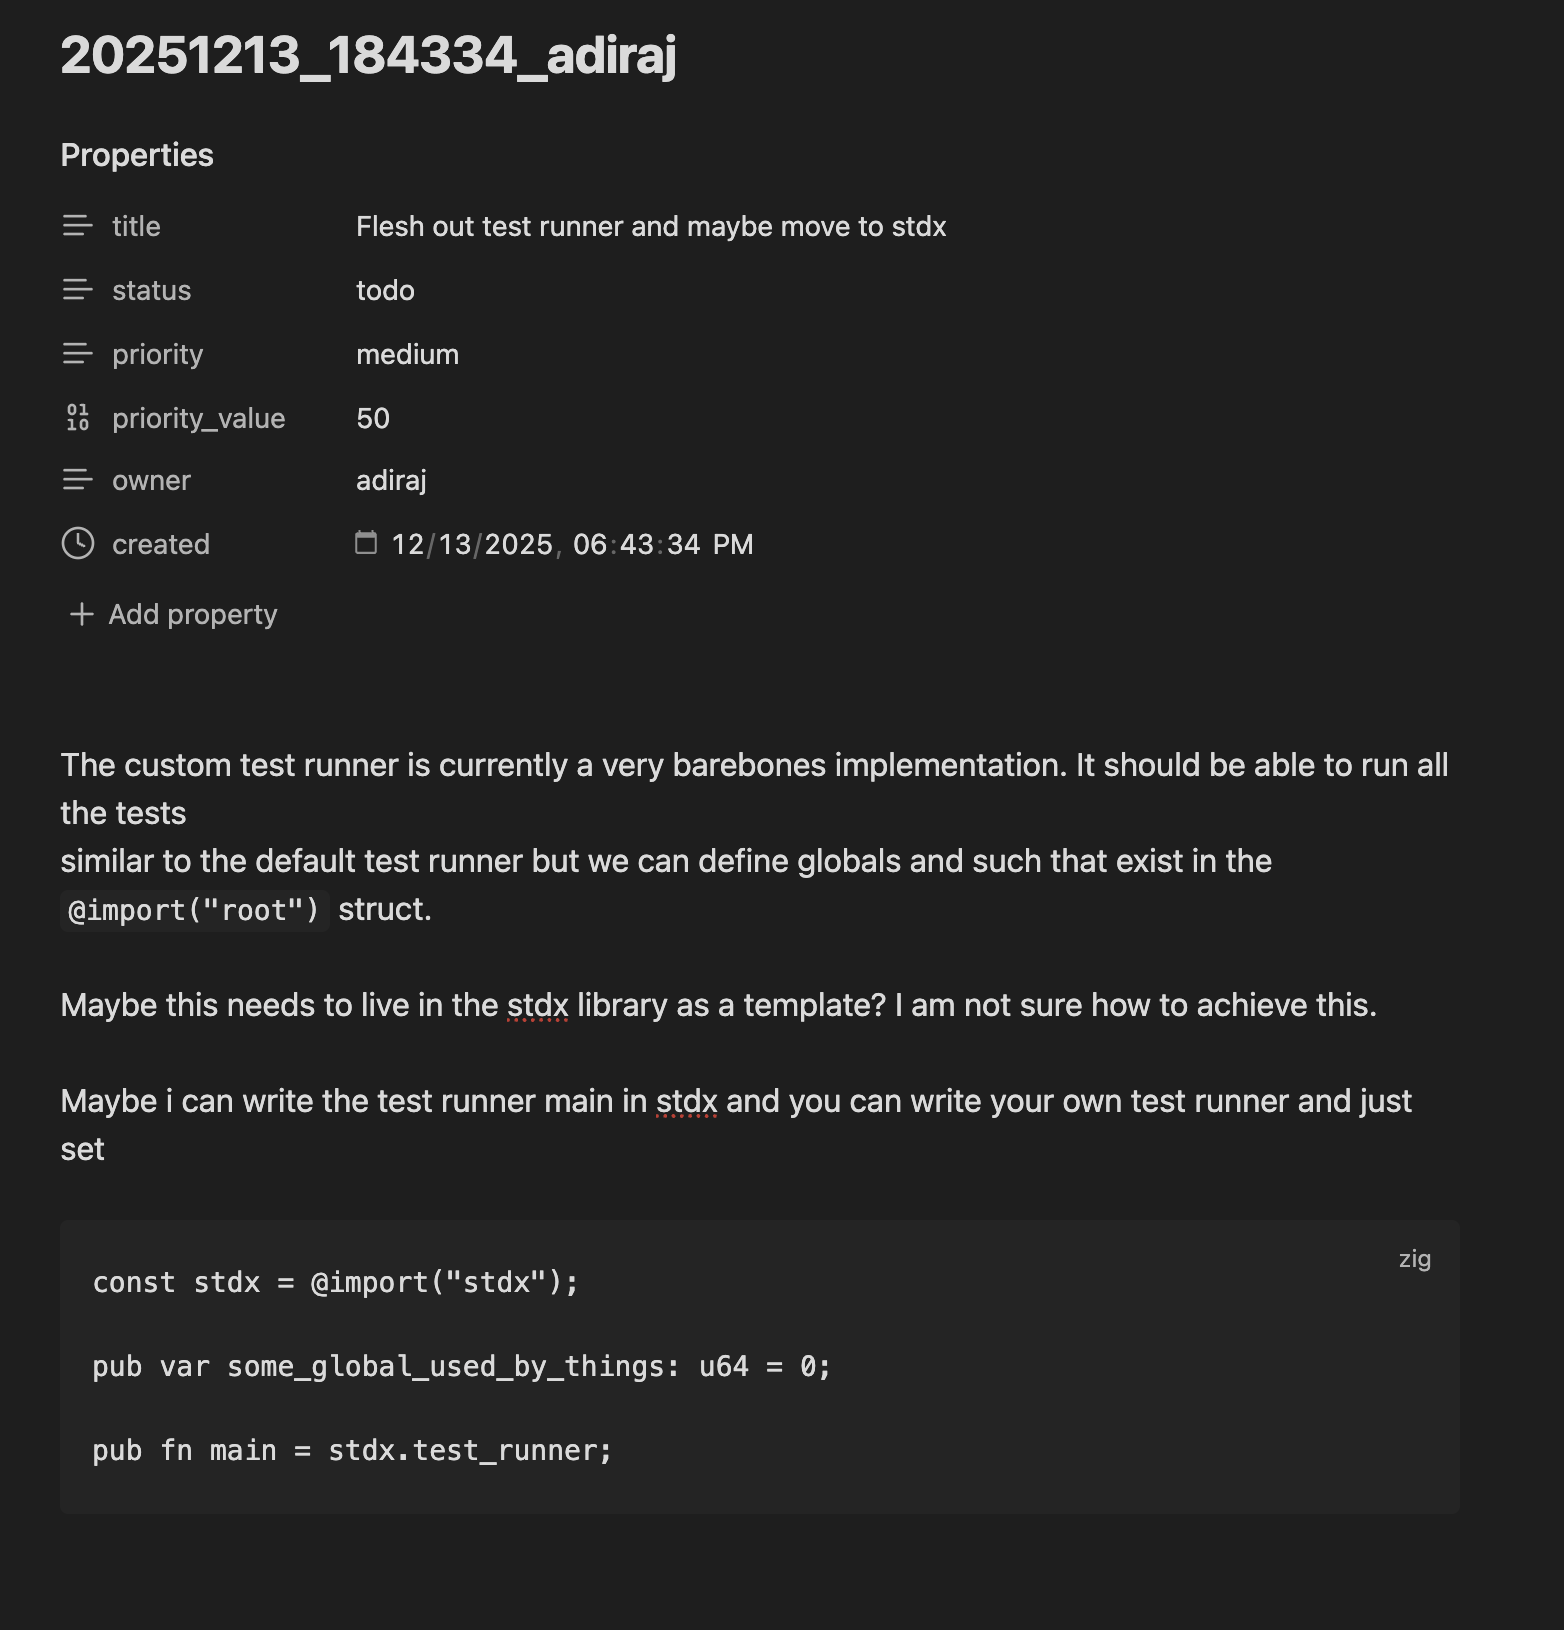
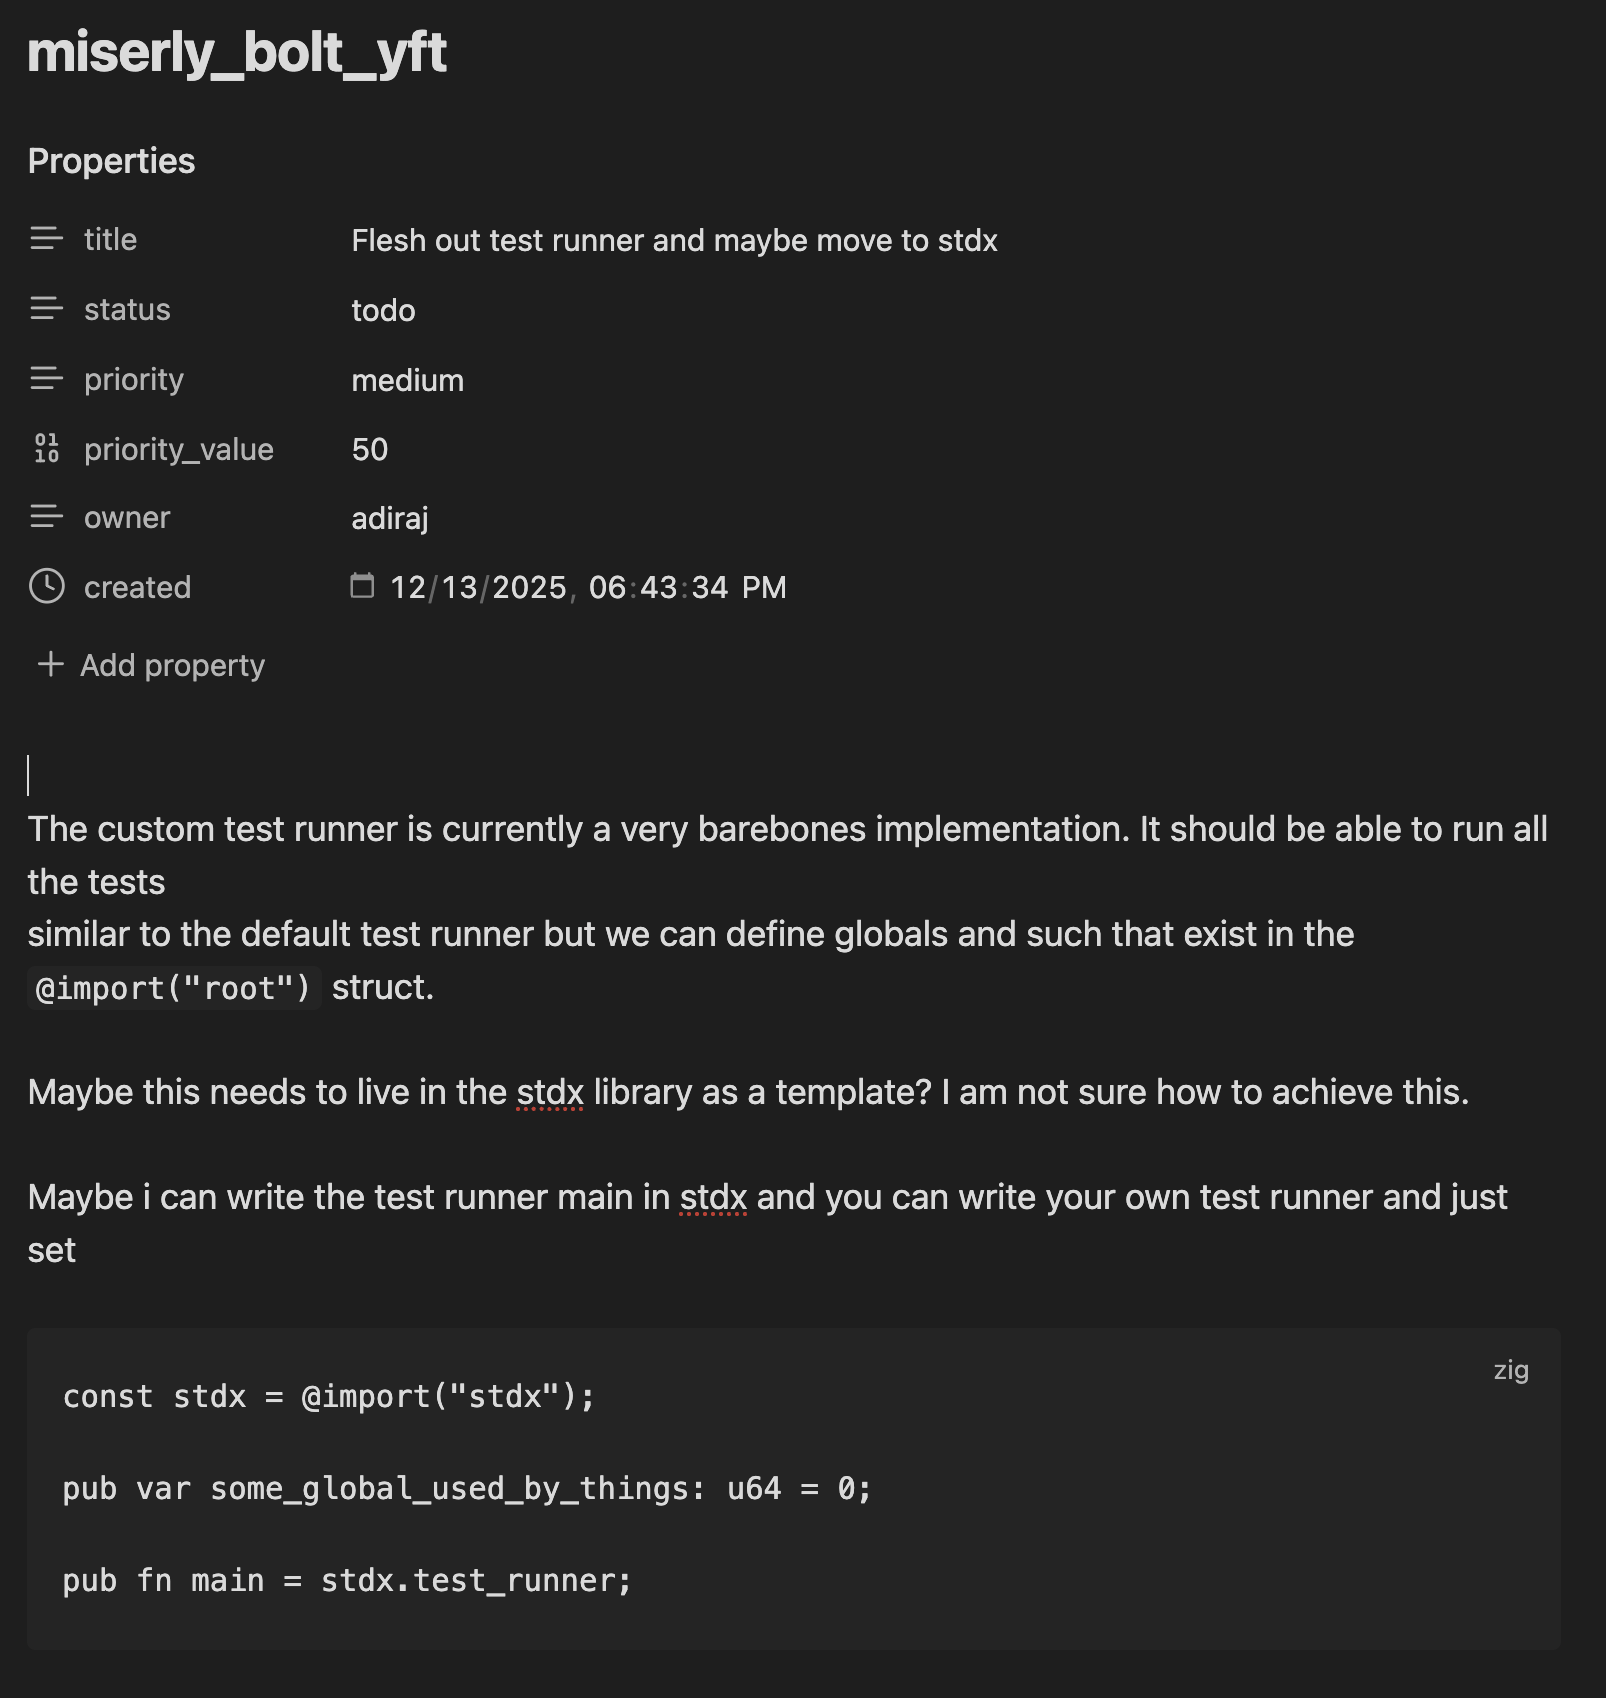
fix: update readme to match new task id format

diff --git a/README.md b/README.md
@@ -2,7 +2,7 @@
     <img src="screenshots/gila.png" alt="ascii-art" width="649">
 </figure>
 
-> 🚧 **Heads up:** GILA is currently in active development. Things might break, commands might change, and the lizard might bite.
+> 🚧 **Heads up:** GILA is currently in active development.
 
 ## What is GILA?
 
@@ -28,11 +28,14 @@ You'll need [Zig](https://ziglang.org/download/) installed.
 
 ## Why?
 
-Because `TODO` comments get lost, and I dont like JIRA for something like my recreational projects.
+I often have `TODO` comments littered throughout
+my codebase and I dont like it. It is easy to forget and hard to track. I also dislike tools like JIRA and Github issues for creating tasks as I usually just want
+some place to add information like images, debug logs, and thoughts for me to reference later. Lastly I value being able to 
+locally view all my tasks and check them in when I sync my repositories across multiple machines.
 
 * The tasks live where your code lives. Syncing your repo syncs your tasks.
 * Each task is just a Markdown file with simple frontmatter. Readable everywhere.
-* Tasks get timestamp-based IDs (`YYYYMMDD_HHMMSS_username`) so you can reference them anywhere.
+* Tasks get human readable IDs (`blaring_magma_6kr`) that are easy to remember and type.
 * Since it's just files, you can script it, grep it, or edit it with neovim(btw).
 
 ## Visuals
@@ -92,7 +95,7 @@ Since GILA uses standard YAML frontmatter, your tasks look great in tools that u
   <h2>Spec essentials</h2>
   <ul>
     <li>Tasks live under <code>.gila/</code> with folders named by status (e.g. <code>todo/</code>, <code>done/</code>).</li>
-    <li>Each task has an ID <code>YYYYMMDD_HHMMSS_username</code> (see <a href="SPEC.md#taskid">SPEC.md#taskid</a>) and a matching <code>task_id.md</code> file as source of truth.</li>
+    <li>Each task has an ID <code>word_word_ccc</code> (see <a href="SPEC.md#taskid">SPEC.md#taskid</a>) and a matching <code>task_id.md</code> file as source of truth.</li>
     <li>Status and priority are lowercase: <code>todo|done|in_progress|cancelled|waiting</code>; <code>low|medium|high|urgent</code>.</li>
     <li>If folder and file disagree, the header in the file wins.</li>
     <li>Header structure follows <a href="SPEC.md#task-description">SPEC.md#task-description</a>.</li>
@@ -134,11 +137,11 @@ gila todo "Fix the memory leak in the renderer"
 
 # More customizable and opens the file in your editor at $EDITOR or vim by default
 gila todo --priority=high --priority-value=80 --tags="bug,renderer" --edit "Fix the memory leak"
-# > New task created: 20251213_084840_adiraj
+# > New task created: scared_nimbus_5kw
 ```
 
 **Finish the task**
 ```bash
 # Marks the task as done and opens the editor at $EDITOR or vim by default
-gila done --edit 20251213_084840_adiraj
+gila done --edit scared_nimbus_5kw
 ```
